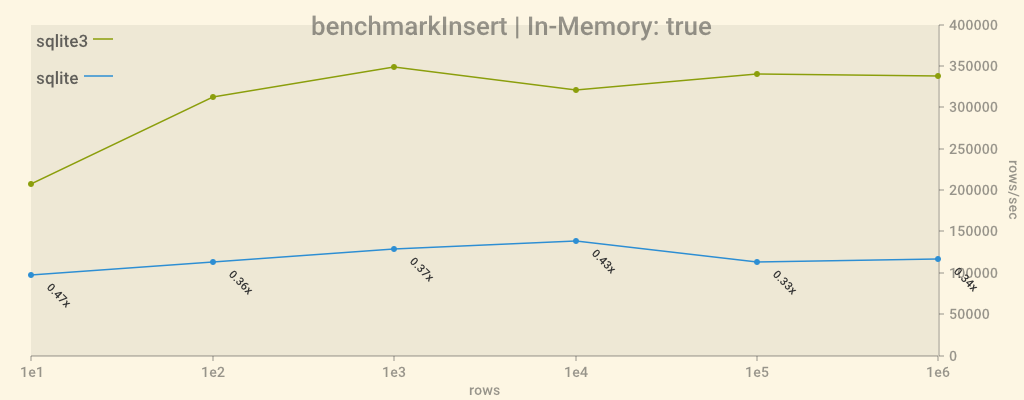
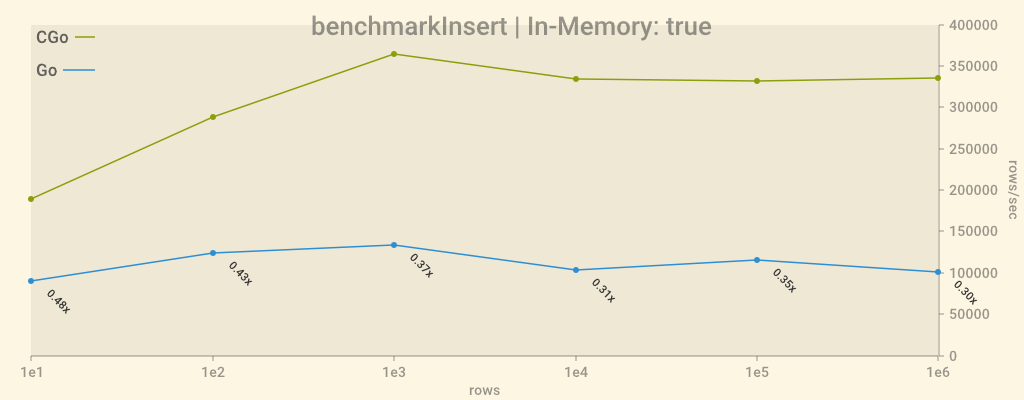
rename series to CGo / Go

diff --git a/benchmark/bench_and_plot.go b/benchmark/bench_and_plot.go
@@ -63,7 +63,13 @@ func main() {
 				}
 
 				// add series to graph
-				graph.AddSeries(driver, seriesValues)
+				var seriesName string
+				if driver == "sqlite3" {
+					seriesName = "CGo"
+				} else {
+					seriesName = "Go"
+				}
+				graph.AddSeries(seriesName, seriesValues)
 			}
 
 			// render graph into file
